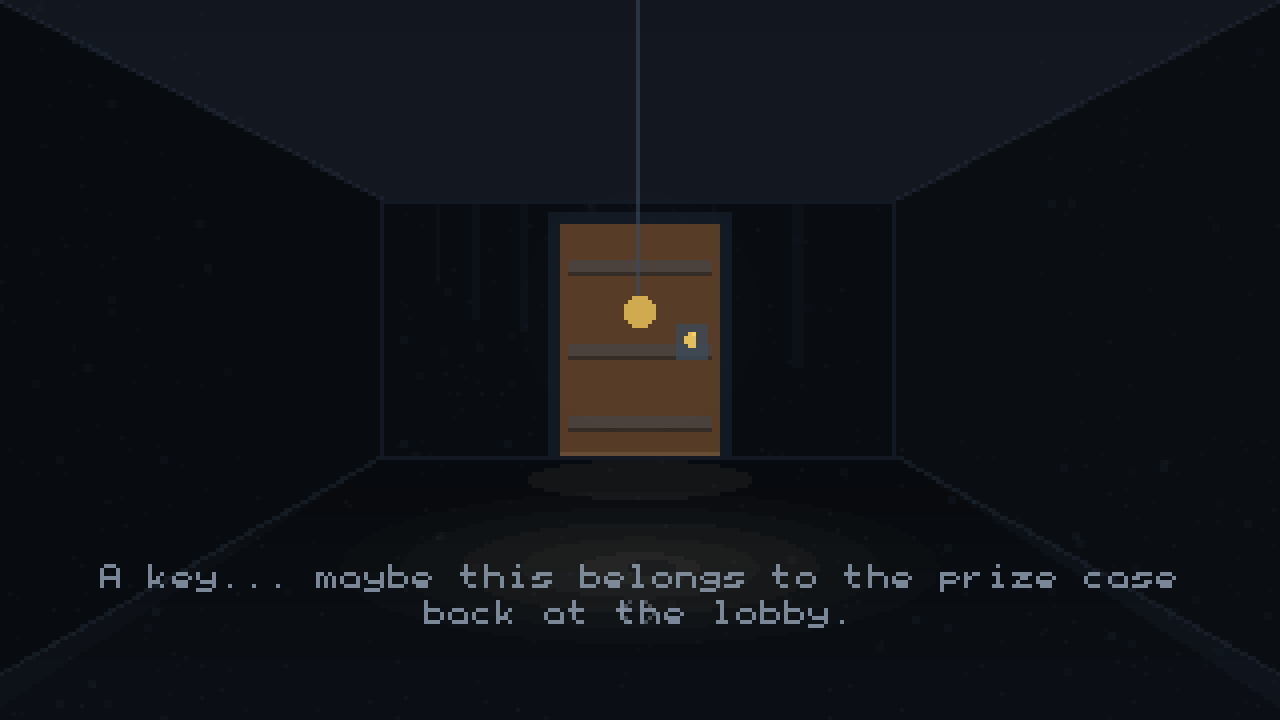
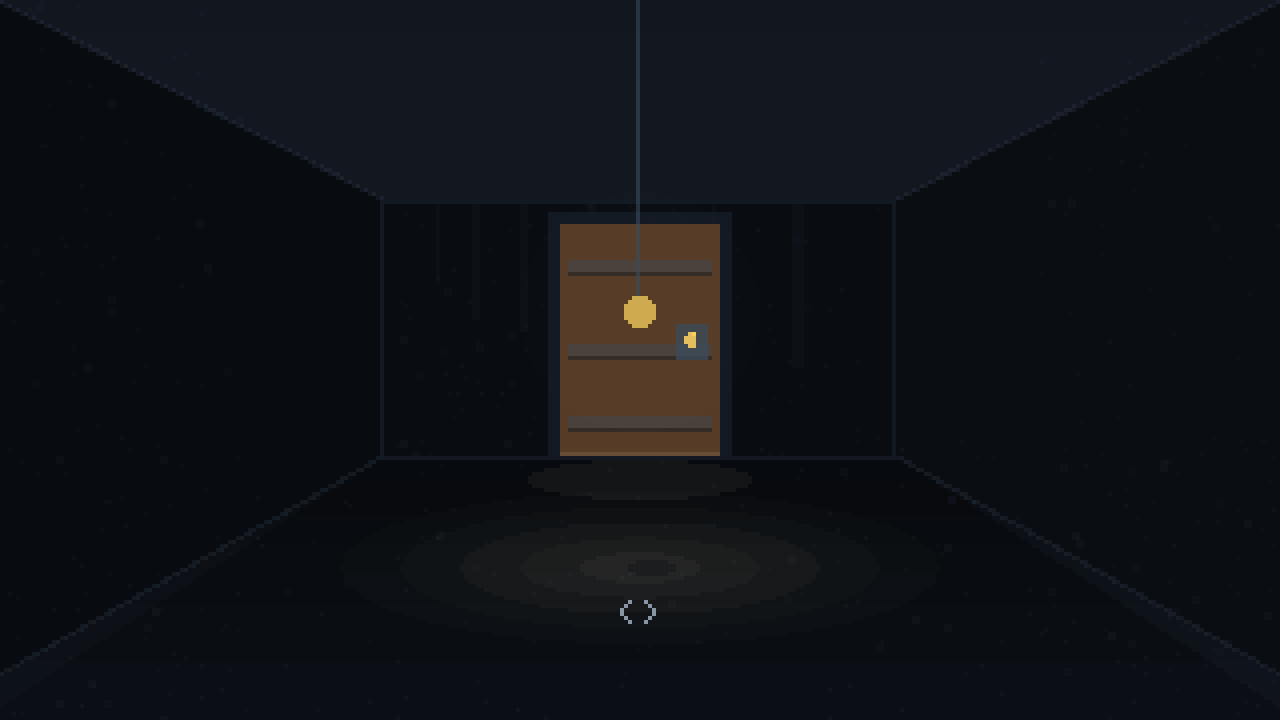
Basement: the key thought is dismissed before the bulb flickers
Picking up the key takes it off the table and puts the thought on screen
with a CONTINUE under it.  CONTINUE removes the line in the same frame --
no fade on its own clock -- and only then walks on to the TURN AROUND
frame, so nothing of it is left over the reveal.

Claude-Session: https://claude.ai/code/session_014fZqzLJ4fL4whRPBpUnjrb

Changed region(s): [[0.25, 0.7944, 0.9375, 0.8861], [0.0625, 0.7944, 0.1875, 0.825]]

diff --git a/src/scenes2d/BasementSequence.ts b/src/scenes2d/BasementSequence.ts
@@ -74,6 +74,8 @@ export class BasementSequence extends Phaser.Scene {
   private layer: Phaser.GameObjects.Container | null = null;
   private hotspot: Phaser.GameObjects.Container | null = null;
   private busy = true;
+  /** The thought on screen, if any: see `think`. */
+  private thought: Phaser.GameObjects.Container | null = null;
   /** The frame a walk in progress is heading for, and every timer it is riding on. */
   private walkTo: number | null = null;
   private pending: Phaser.Time.TimerEvent[] = [];
@@ -140,6 +142,7 @@ export class BasementSequence extends Phaser.Scene {
   private show(i: number, fade = CROSSFADE_MS): void {
     this.index = i;
     this.busy = true;
+    this.clearThought();
 
     const next = this.add.container(0, 0).setAlpha(0);
     this.frames[i].paint(this, next);
@@ -195,7 +198,6 @@ export class BasementSequence extends Phaser.Scene {
       });
       return;
     }
-    if (i === 6) this.think('A key... maybe this belongs to the prize case back at the lobby.');
     if (def.hotspot === 'turnAround') {
       // Five seconds to turn round yourself.  Then the game does it for you.
       this.time.delayedCall(5000, () => {
@@ -311,11 +313,19 @@ export class BasementSequence extends Phaser.Scene {
       return;
     }
     if (kind === 'key') {
-      // PRD frame 8: hasKey, then the bulb flickers hard.
+      // PRD frame 8: hasKey, then the bulb flickers hard -- but not before
+      // the thought about it has been read and dismissed.  The line used to
+      // fade on its own clock and was still on screen under TURN AROUND.
       store.patch({ hasKey: true });
       store.flush();
       audio.sfx('lock_click');
-      this.queue(260, 2);
+      this.hotspot?.destroy();
+      this.hotspot = null;
+      // off the table and into your hand, as the flicker frame paints it
+      if (this.layer) {
+        for (const k of this.layer.list.filter((o) => o instanceof Phaser.GameObjects.Container)) k.destroy();
+      }
+      this.think('A key... maybe this belongs to the prize case back at the lobby.', () => this.queue(0, 2));
       return;
     }
 
@@ -483,14 +493,35 @@ export class BasementSequence extends Phaser.Scene {
    * quiet, fading in under the picture and out again.  It is the player
    * working something out, not anybody talking to them.
    */
-  private think(line: string): void {
-    const t = text(this, GAME_W / 2, GAME_H - 30, line, PALETTE.fog)
+  private think(line: string, onContinue: () => void): void {
+    const t = text(this, GAME_W / 2, GAME_H - 34, line, PALETTE.fog)
       .setOrigin(0.5, 0.5)
       .setMaxWidth(GAME_W - 40)
       .setCenterAlign()
-      .setAlpha(0)
-      .setDepth(700);
-    this.tweens.add({ targets: t, alpha: 0.85, duration: 700 });
-    this.tweens.add({ targets: t, alpha: 0, delay: 5200, duration: 900, onComplete: () => t.destroy() });
+      .setAlpha(0);
+    const go = text(this, GAME_W / 2, GAME_H - 13, '[ CONTINUE ]', PALETTE.bone, 8).setOrigin(0.5, 0.5).setAlpha(0);
+    const zone = this.add.rectangle(GAME_W / 2, GAME_H - 13, 90, 18, PALETTE.cream, 0).setAlpha(0.001);
+    const box = this.add.container(0, 0, [t, go, zone]).setDepth(700);
+    this.thought = box;
+    this.tweens.add({ targets: t, alpha: 0.85, duration: 500 });
+    this.tweens.add({ targets: go, alpha: 0.8, delay: 600, duration: 400 });
+    // Continue is live once the line is there to have been read.
+    this.time.delayedCall(600, () => {
+      if (this.thought !== box) return;
+      zone.setInteractive({ useHandCursor: true }).once('pointerdown', () => {
+        // Gone in the same frame, not faded: nothing of it is left on the
+        // screen the bulb starts to flicker on.
+        this.clearThought();
+        onContinue();
+      });
+    });
+  }
+
+  /** The thought and its button, off the screen at once. */
+  private clearThought(): void {
+    if (!this.thought) return;
+    this.tweens.killTweensOf(this.thought.list);
+    this.thought.destroy();
+    this.thought = null;
   }
 }
